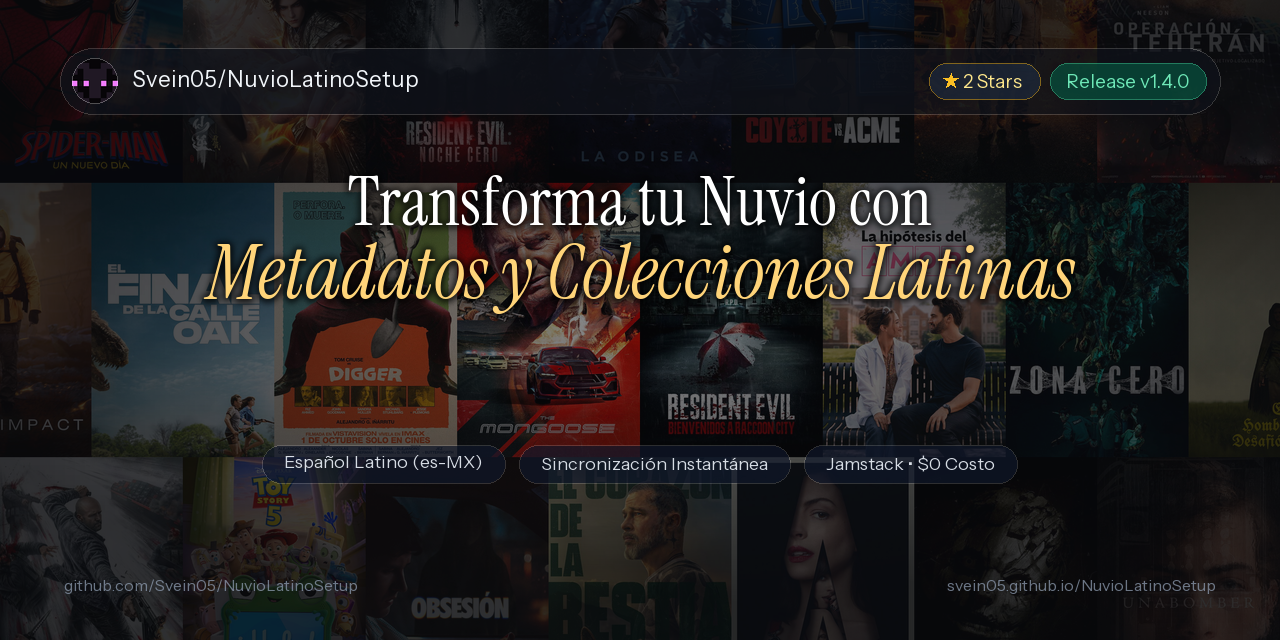
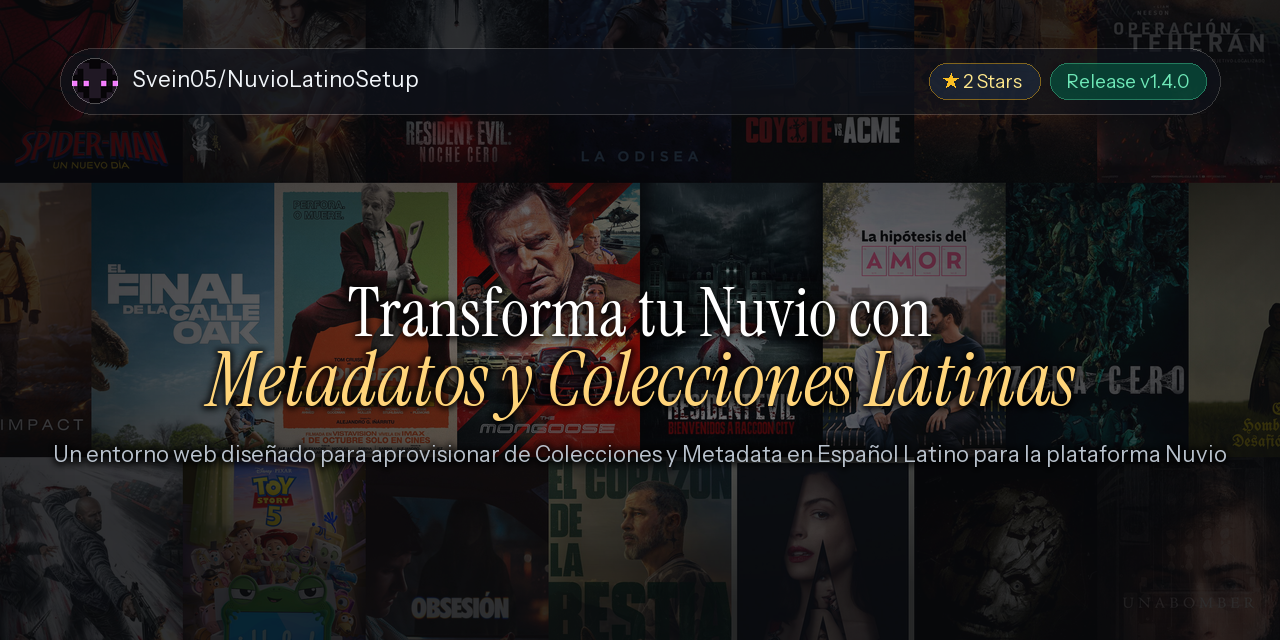
feat: renombrar a generate_assets.py, centrar verticalmente preview con descripcion y eliminar urls de contador en codigo

diff --git a/js/counter.js b/js/counter.js
@@ -13,18 +13,18 @@ const STORAGE_KEYS = {
   SESSION_RECORDED: 'nuvio_completion_session_recorded'
 };
 
-// Endpoints primario y secundario para redundancia (soporta inyeccion en build/deploy)
+// Endpoints primario y secundario para redundancia (inyectados exclusivamente en despliegue)
 const API_ENDPOINTS = {
   PRIMARY: {
-    name: 'Abacus',
-    get: INJECTED_COUNTER_CONFIG?.primaryGet || 'https://abacus.jasoncameron.dev/get/nuvio-latino-setup/completions',
-    hit: INJECTED_COUNTER_CONFIG?.primaryHit || 'https://abacus.jasoncameron.dev/hit/nuvio-latino-setup/completions',
+    name: 'Primary',
+    get: INJECTED_COUNTER_CONFIG?.primaryGet || '',
+    hit: INJECTED_COUNTER_CONFIG?.primaryHit || '',
     extract: (data) => (typeof data?.value === 'number' ? data.value : null)
   },
   FALLBACK: {
-    name: 'CountAPI',
-    get: INJECTED_COUNTER_CONFIG?.fallbackGet || 'https://countapi.mileshilliard.com/api/v1/get/nuviolatino_setups_v1',
-    hit: INJECTED_COUNTER_CONFIG?.fallbackHit || 'https://countapi.mileshilliard.com/api/v1/hit/nuviolatino_setups_v1',
+    name: 'Fallback',
+    get: INJECTED_COUNTER_CONFIG?.fallbackGet || '',
+    hit: INJECTED_COUNTER_CONFIG?.fallbackHit || '',
     extract: (data) => (typeof data?.value === 'number' ? data.value : null)
   }
 };
@@ -36,6 +36,7 @@ const BASELINE_COUNT = 150;
  * Realiza una petición con timeout de seguridad
  */
 async function fetchWithTimeout(url, timeoutMs = 3500) {
+  if (!url) throw new Error('URL de endpoint no configurada.');
   const controller = new AbortController();
   const timer = setTimeout(() => controller.abort(), timeoutMs);
   try {
@@ -53,28 +54,32 @@ async function fetchWithTimeout(url, timeoutMs = 3500) {
  * Obtiene el total global actual de configuraciones completadas
  */
 export async function fetchCompletionsCount() {
-  // 1. Intentar proveedor principal (Abacus)
-  try {
-    const data = await fetchWithTimeout(API_ENDPOINTS.PRIMARY.get, 3000);
-    const count = API_ENDPOINTS.PRIMARY.extract(data);
-    if (count !== null && count >= 0) {
-      saveLocalCache(count);
-      return count;
+  // 1. Intentar proveedor principal si está configurado
+  if (API_ENDPOINTS.PRIMARY.get) {
+    try {
+      const data = await fetchWithTimeout(API_ENDPOINTS.PRIMARY.get, 3000);
+      const count = API_ENDPOINTS.PRIMARY.extract(data);
+      if (count !== null && count >= 0) {
+        saveLocalCache(count);
+        return count;
+      }
+    } catch (errPrimary) {
+      console.warn(`[Counter] Proveedor principal no disponible:`, errPrimary.message);
     }
-  } catch (errPrimary) {
-    console.warn(`[Counter] Proveedor principal (${API_ENDPOINTS.PRIMARY.name}) no disponible:`, errPrimary.message);
   }
 
-  // 2. Intentar proveedor secundario (CountAPI)
-  try {
-    const data = await fetchWithTimeout(API_ENDPOINTS.FALLBACK.get, 3000);
-    const count = API_ENDPOINTS.FALLBACK.extract(data);
-    if (count !== null && count >= 0) {
-      saveLocalCache(count);
-      return count;
+  // 2. Intentar proveedor secundario si está configurado
+  if (API_ENDPOINTS.FALLBACK.get) {
+    try {
+      const data = await fetchWithTimeout(API_ENDPOINTS.FALLBACK.get, 3000);
+      const count = API_ENDPOINTS.FALLBACK.extract(data);
+      if (count !== null && count >= 0) {
+        saveLocalCache(count);
+        return count;
+      }
+    } catch (errFallback) {
+      console.warn(`[Counter] Proveedor secundario no disponible:`, errFallback.message);
     }
-  } catch (errFallback) {
-    console.warn(`[Counter] Proveedor secundario (${API_ENDPOINTS.FALLBACK.name}) no disponible:`, errFallback.message);
   }
 
   // 3. Respaldo: leer caché local de localStorage

diff --git a/scripts/generate_assets.py b/scripts/generate_assets.py
@@ -541,10 +541,13 @@ def generate_github_social_preview(
     uidraw.text((v_text_x, v_text_y), ver_str, font=font_sans_badge, fill=(110, 231, 183, 255))
 
     # -------------------------------------------------------------
-    # 2. CENTER TYPOGRAPHY & HERO
+    # 2. CENTER TYPOGRAPHY & HERO (Centrado en el espacio restante)
     # -------------------------------------------------------------
     title1 = "Transforma tu Nuvio con"
     title2 = "Metadatos y Colecciones Latinas"
+    desc_text = "Un entorno web diseñado para aprovisionar de Colecciones y Metadata en Español Latino para la plataforma Nuvio"
+
+    font_sans_desc = ImageFont.truetype(FONT_SANS, 22)
 
     bbox_t1 = uidraw.textbbox((0, 0), title1, font=font_serif_h1)
     w_t1, h_t1 = bbox_t1[2] - bbox_t1[0], bbox_t1[3] - bbox_t1[1]
@@ -552,17 +555,30 @@ def generate_github_social_preview(
     bbox_t2 = uidraw.textbbox((0, 0), title2, font=font_serif_h2)
     w_t2, h_t2 = bbox_t2[2] - bbox_t2[0], bbox_t2[3] - bbox_t2[1]
 
-    title_spacing = 16
-    total_title_h = h_t1 + title_spacing + h_t2
-    title_start_y = 175
+    bbox_desc = uidraw.textbbox((0, 0), desc_text, font=font_sans_desc)
+    w_desc, h_desc = bbox_desc[2] - bbox_desc[0], bbox_desc[3] - bbox_desc[1]
+
+    # Cálculos de centrado vertical considerando la cabecera superior
+    top_limit = header_y1  # Límite superior: parte inferior de la cabecera (114 px)
+    bottom_limit = target_h  # Límite inferior del lienzo (640 px)
+    available_h = bottom_limit - top_limit
+
+    spacing_titles = 12
+    spacing_desc = 24
+    total_content_h = h_t1 + spacing_titles + h_t2 + spacing_desc + h_desc
+
+    start_y = top_limit + (available_h - total_content_h) // 2
 
     t1_x = (target_w - w_t1) // 2 - bbox_t1[0]
-    t1_y = title_start_y - bbox_t1[1]
+    t1_y = start_y - bbox_t1[1]
 
     t2_x = (target_w - w_t2) // 2 - bbox_t2[0]
-    t2_y = title_start_y + h_t1 + title_spacing - bbox_t2[1]
+    t2_y = start_y + h_t1 + spacing_titles - bbox_t2[1]
 
-    # Multilayer shadow for title
+    desc_x = (target_w - w_desc) // 2 - bbox_desc[0]
+    desc_y = start_y + h_t1 + spacing_titles + h_t2 + spacing_desc - bbox_desc[1]
+
+    # Capa de sombra multicapa para alto contraste cinematográfico
     shadow = Image.new("RGBA", (target_w, target_h), (0, 0, 0, 0))
     sdraw = ImageDraw.Draw(shadow)
     offsets = [
@@ -573,65 +589,14 @@ def generate_github_social_preview(
     for ox, oy in offsets:
         sdraw.text((t1_x + ox, t1_y + oy), title1, font=font_serif_h1, fill=(0, 0, 0, 160))
         sdraw.text((t2_x + ox, t2_y + oy), title2, font=font_serif_h2, fill=(0, 0, 0, 190))
+        sdraw.text((desc_x + ox, desc_y + oy), desc_text, font=font_sans_desc, fill=(0, 0, 0, 180))
 
     shadow_blurred = shadow.filter(ImageFilter.GaussianBlur(radius=3))
     composed = Image.alpha_composite(composed, shadow_blurred)
 
     uidraw.text((t1_x, t1_y), title1, font=font_serif_h1, fill=(255, 255, 255, 255))
     uidraw.text((t2_x, t2_y), title2, font=font_serif_h2, fill=(255, 212, 121, 255))
-
-    # -------------------------------------------------------------
-    # 3. FEATURE TAG PILLS (Center bottom)
-    # -------------------------------------------------------------
-    tag_pills = [
-        "Español Latino (es-MX)",
-        "Sincronización Instantánea",
-        "Jamstack • $0 Costo"
-    ]
-    pill_padding_x = 22
-    pill_h = 38
-    pill_spacing = 14
-
-    measured_pills = []
-    total_pills_w = 0
-    for tag in tag_pills:
-        bbox_pill = uidraw.textbbox((0, 0), tag, font=font_sans_pills)
-        tw = bbox_pill[2] - bbox_pill[0]
-        th = bbox_pill[3] - bbox_pill[1]
-        pw = tw + pill_padding_x * 2
-        measured_pills.append((tag, pw, tw, th, bbox_pill))
-        total_pills_w += pw
-    total_pills_w += pill_spacing * (len(tag_pills) - 1)
-
-    pills_start_x = (target_w - total_pills_w) // 2
-    pills_y = 445
-
-    curr_px = pills_start_x
-    for tag, pw, tw, th, bbox_pill in measured_pills:
-        draw_rounded_pill(
-            uidraw,
-            (curr_px, pills_y, curr_px + pw, pills_y + pill_h),
-            radius=19,
-            fill=(15, 23, 42, 170),
-            outline=(255, 255, 255, 40),
-            width=1
-        )
-        tx = curr_px + (pw - tw) // 2 - bbox_pill[0]
-        ty = pills_y + (pill_h - th) // 2 - bbox_pill[1]
-        uidraw.text((tx, ty), tag, font=font_sans_pills, fill=(226, 232, 240, 240))
-        curr_px += pw + pill_spacing
-
-    # -------------------------------------------------------------
-    # 4. FOOTER BAR (Subtle repo & web URLs)
-    # -------------------------------------------------------------
-    footer_y = 575
-    left_footer = "github.com/Svein05/NuvioLatinoSetup"
-    right_footer = "svein05.github.io/NuvioLatinoSetup"
-
-    uidraw.text((64, footer_y), left_footer, font=font_sans_footer, fill=(148, 163, 184, 180))
-    bbox_rf = uidraw.textbbox((0, 0), right_footer, font=font_sans_footer)
-    rf_w = bbox_rf[2] - bbox_rf[0]
-    uidraw.text((target_w - 64 - rf_w, footer_y), right_footer, font=font_sans_footer, fill=(148, 163, 184, 180))
+    uidraw.text((desc_x, desc_y), desc_text, font=font_sans_desc, fill=(203, 213, 225, 230))
 
     composed = Image.alpha_composite(composed, ui_layer)
 
